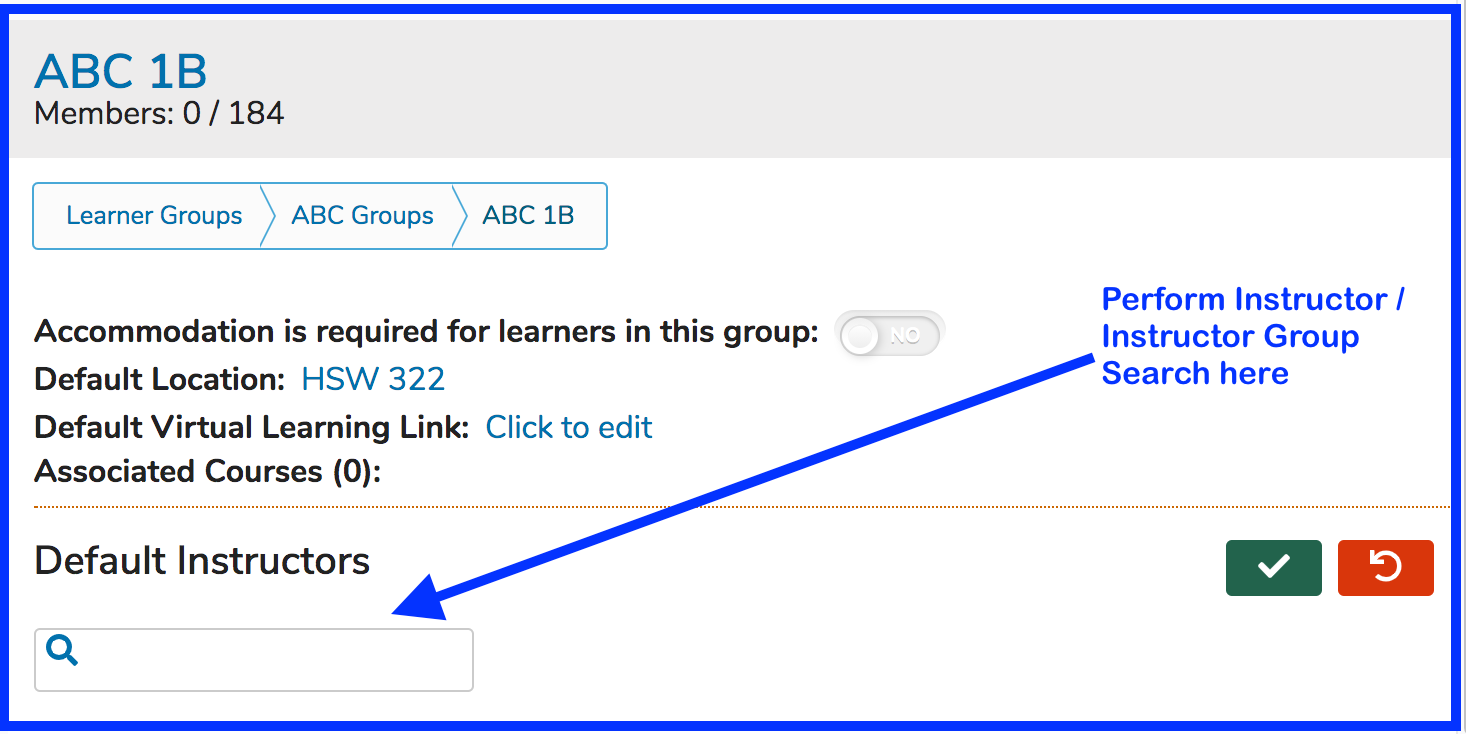
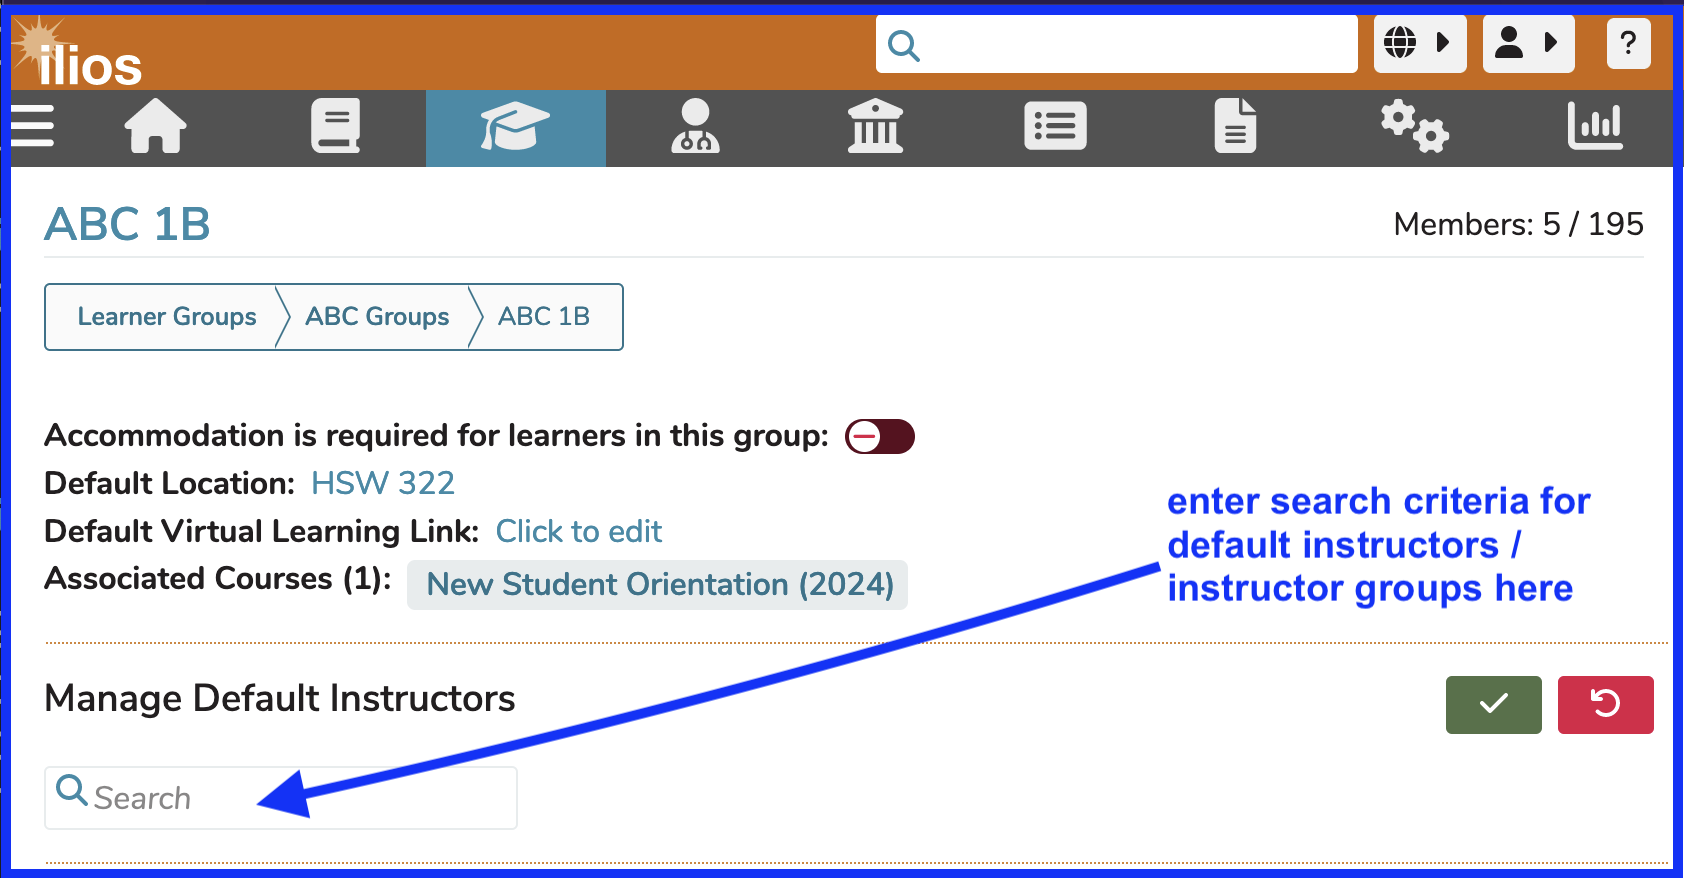
a cpl more updates - default instructors

diff --git a/learner-groups/learner-group-defaults.md b/learner-groups/learner-group-defaults.md
@@ -39,15 +39,15 @@ The process for adding default instructor(s) is similar with the exception being
 
 **Step Two**
 
-After clicking as shown above, the screen adjusts to allow for the search for one or more instructors to be performed.
+After clicking as shown above, the screen adjusts to allow for the search for one or more instructors and/or instructor groups to be performed.
 
 ![Default instructor - search](../images/learner_group_defaults/default_instructor_search.png)
 
 **Step Three**
 
-Search for and select several Instructors and an Instructor Group. The instructors who are in the group are listed as shown below.
+Search for and select several Instructors and an Instructor Group. The instructors who are in the group are listed as shown below. The first step, not currently shown in the guide, was to search for "BMB" which resulted in the selection of the "BMB Anatomy Lab Faculty" instructor group. Secondly, a search was performed for "Greene". This is shown below and resulted in the selection of two individual instructors to be added to the seven instructors who are members of the "BMB Anatomy Lab Faculty" instructor group. Nine instructors total have been selected as default instructors for this learner group. 
 
-![Default instructor - save](../images/learner_group_defaults/default_instructor_search.png)
+![select default instructors](../images/learner_group_defaults/select_instructors.png)
 
 After performing the action shown above, all 7 members of the "BMB Anatomy Lab Faculty" Instructor group along with the 2 individual Instructors have been assigned to be default instructors for any newly created offerings associated with this Learner Group.
 
